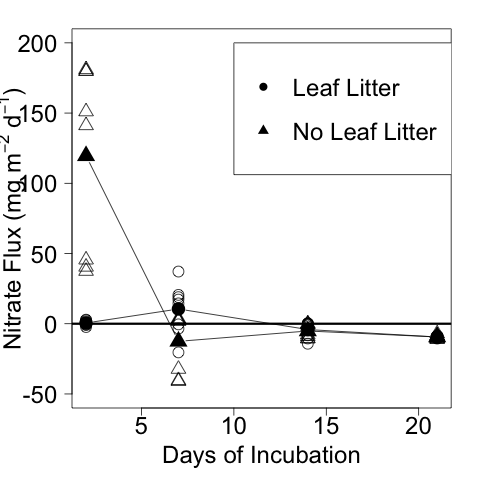
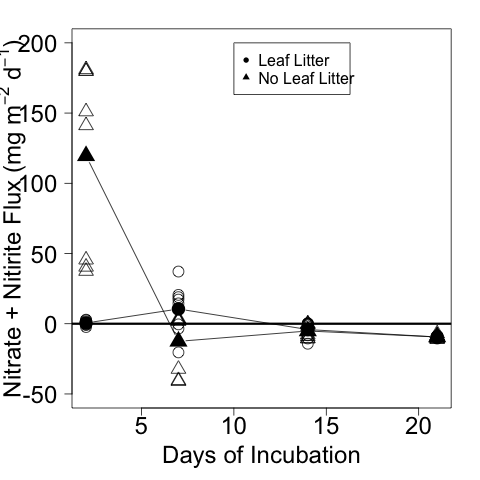
fixed legends on nutrient figs

diff --git a/lab_notebook/analysis/CPOM_Flux_Nutrient_Analysis.md b/lab_notebook/analysis/CPOM_Flux_Nutrient_Analysis.md
@@ -190,14 +190,14 @@ Flux calculations can be found in `CPOM_Flux_Nutrient_Flux_Calc.md` in the `anal
 #### NOx
 
     par(las = 1, mar = c(5, 5, 2, 2))
-    plot(NOx ~ days, data = nut, subset = CPOM == "C", ylim = c(-50, 200), pch = 1, ylab = expression(paste("Nitrate Flux (mg m"^{-2}, " d"^{-1}, ")")), xlab = "Days of Incubation", cex.axis = 1.5, cex.lab = 1.5, cex = 2)
+    plot(NOx ~ days, data = nut, subset = CPOM == "C", ylim = c(-50, 200), pch = 1, ylab = expression(paste("Nitrate + Nitirite Flux (mg m"^{-2}, " d"^{-1}, ")")), xlab = "Days of Incubation", cex.axis = 1.5, cex.lab = 1.5, cex = 2)
     points(NOx ~ days, data = nut, subset = CPOM == "0", pch = 2, col = 1, cex = 2)
     abline(h = 0, lwd = 3)
     means.NOx.CPOM <- c(mean(nut$NOx[nut$CPOM == "C" & nut$days == 2]), mean(nut$NOx[nut$CPOM == "C" & nut$days == 7]), mean(nut$NOx[nut$CPOM == "C" & nut$days == 14]), mean(nut$NOx[nut$CPOM == "C" & nut$days == 21])) 
     means.NOx.NCPOM <- c(mean(nut$NOx[nut$CPOM == "0" & nut$days == 2]), mean(nut$NOx[nut$CPOM == "0" & nut$days == 7]), mean(nut$NOx[nut$CPOM == "0" & nut$days == 14]), mean(nut$NOx[nut$CPOM == "0" & nut$days == 21])) 
     points(unique(nut$days), means.NOx.CPOM, type = "b", pch = 16, cex = 2.5)   
     points(unique(nut$days), means.NOx.NCPOM, type = "b", pch = 17, col = 1, cex = 2.5)
-    legend(10, 200, c("Leaf Litter ", "No Leaf Litter "), pch = c(16, 17), col = c(1, 1), cex = 1.5)
+    legend(10, 200, c("Leaf Litter ", "No Leaf Litter "), pch = c(16, 17), col = c(1, 1), cex = 1)
     dev.copy(png, "./output/plots/CPOM_Flux_NOx_flux.png")
     dev.off()
 
@@ -231,7 +231,7 @@ Flux calculations can be found in `CPOM_Flux_Nutrient_Flux_Calc.md` in the `anal
 means.P.NCPOM <- c(mean(nut$P[nut$CPOM == "0" & nut$days == 2]), mean(nut$P[nut$CPOM == "0" & nut$days == 7]), mean(nut$P[nut$CPOM == "0" & nut$days == 14]), mean(nut$P[nut$CPOM == "0" & nut$days == 21])) 
     points(unique(nut$days), means.P.CPOM, type = "b", pch = 16, cex = 2.5)   
     points(unique(nut$days), means.P.NCPOM, type = "b", pch = 17, cex = 2.5)   
-    legend(10, 1, c("Leaf Litter ", "No Leaf Litter "), pch = c(16, 17), col = c(1, 1), cex = 1.5)
+    legend(10, 1, c("Leaf Litter ", "No Leaf Litter "), pch = c(16, 17), col = c(1, 1), cex = 1)
     dev.copy(png, "./output/plots/CPOM_Flux_P_flux.png")
     dev.off()
 
